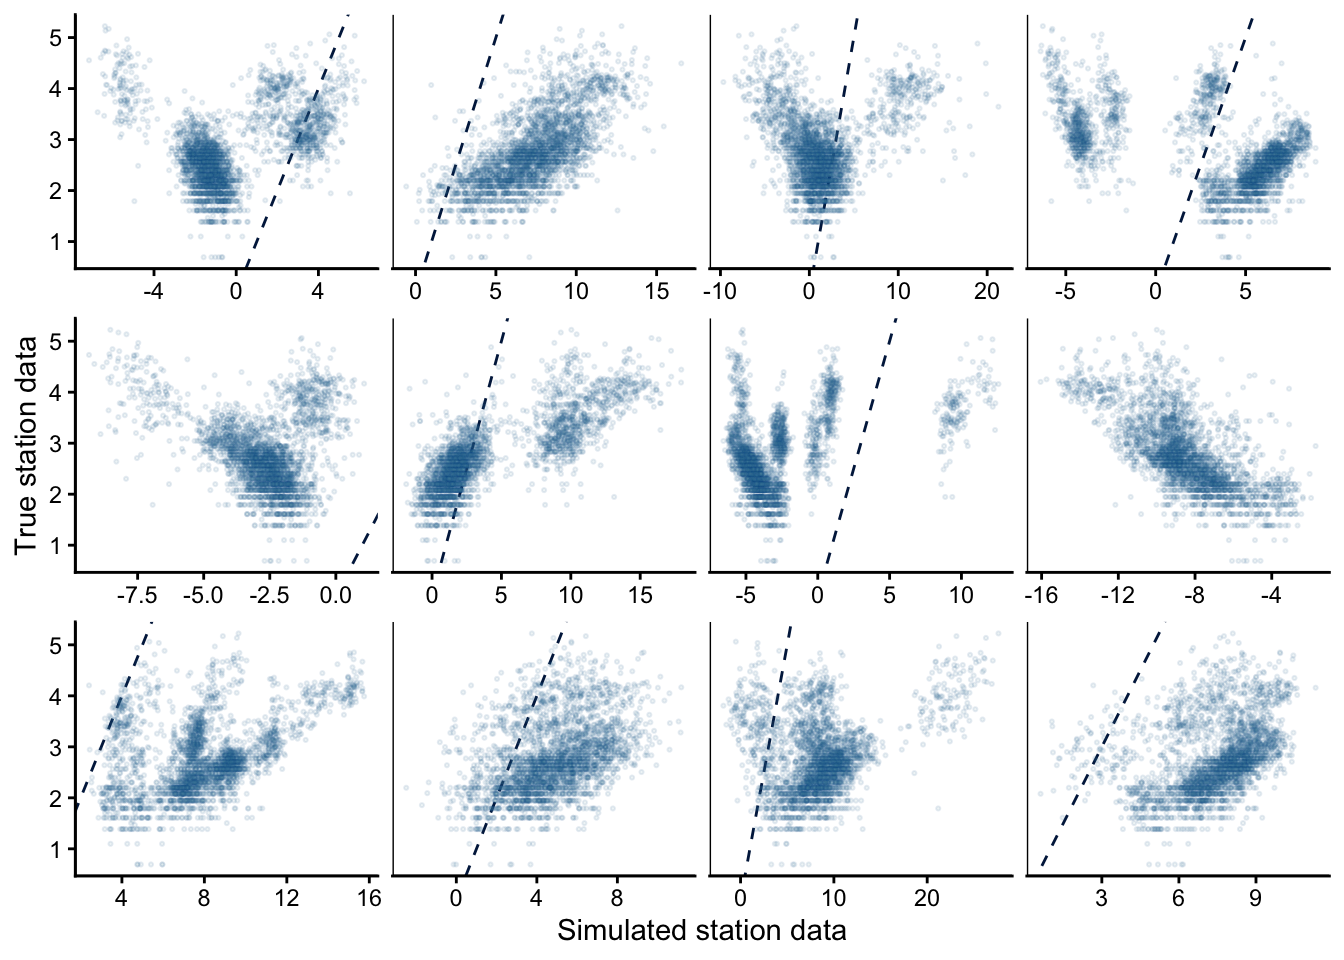
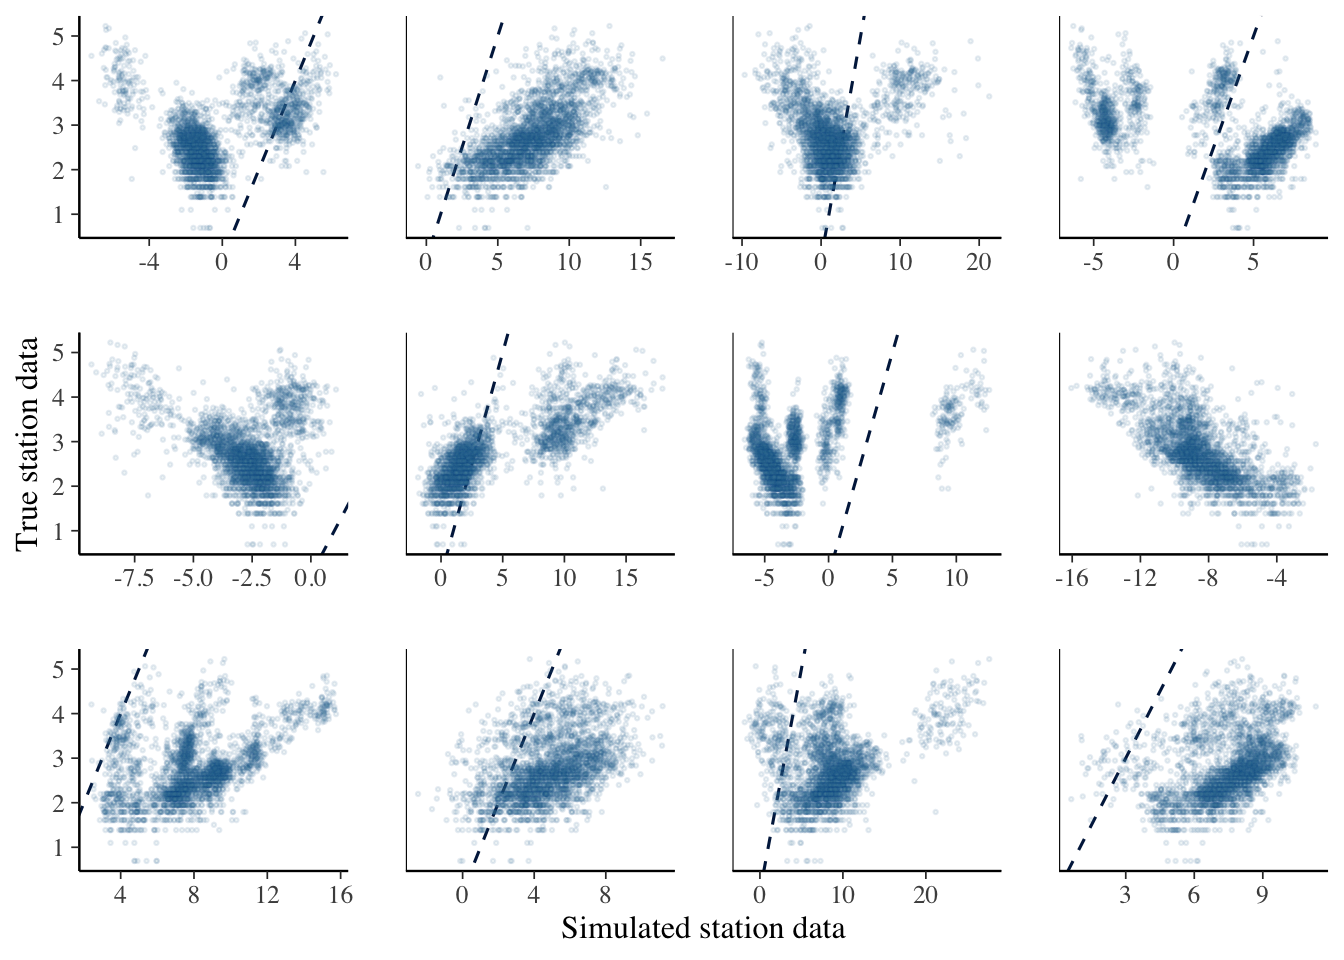
add objectives

diff --git a/notes/11-predictions.html b/notes/11-predictions.html
@@ -164,6 +164,7 @@ window.Quarto = {
 
 
 <p><a href="https://canvas.wisc.edu/courses/530541/files/54329528?wrap=1">Reading (Chapter 8.1 - 8.2)</a> <a href="https://github.com/krisrs1128/data_visualization_notes/blob/main/notes/11-predictions.qmd">Code</a></p>
+<p>Items marked with <span class="math inline">\(^\dagger\)</span> will not be tested on exams.</p>
 <ol type="1">
 <li><p>When we read data analysis reports or attend statistical research seminar, we are often bombarded by numerical outputs from models, like <span class="math inline">\(p\)</span>-values, test set accuracies, parameter estimates, or <span class="math inline">\(R^2\)</span> values. This is all helpful for keeping everyone honest, but if we want to build intuition (and improve) our models, then it really helps to visualize them, and not simply use numerical summaries.</p></li>
 <li><p>In fact, we can integrate visualization throughout the model building process. In data science, there is a cliche that visualization is mainly useful at the very beginning (exploratory data analysis) or end (pretty presentations) of a study. But careful modeling requires visualization at all steps.</p></li>
@@ -212,9 +213,9 @@ y_{1}^{\text{rep}}, \dots, y_{n}^{\text{rep}} \sim p\left(y^{\text{rep}} \vert y
 <li><p>In contrast, the <strong>prior predictive distribution</strong>, denoted <span class="math inline">\(p\left(y^{\text{rep}}\right)\)</span>, describes how we would simulate new datasets before having observed any real data <span class="math inline">\(y\)</span>. It encodes basic facts about the problem setting (e.g., plausible ranges of the outcome) but not the more specific relationships that are unknown in advance. <span id="eq-prior-pred"><span class="math display">\[
 y_{1}^{\text{rep}}, \dots, y_{n}^{\text{rep}} \sim p\left(y^{\text{rep}}\right).
 \tag{2}\]</span></span></p></li>
-</ul></li>
+</ul>
+<p><em>Exercise: You are working with a team on a model of bikesharing demand. A colleague interprets the posterior predictive as the “model’s prediction of future bike demand.” What are they misunderstanding? How would you explain the posterior predictive to them?</em></p></li>
 </ol>
-<p><em>Exercise: You are working with a team on a model of bikesharing demand. A colleague interprets the posterior predictive as the “model’s prediction of future bike demand.” What are they misunderstanding? How would you explain the posterior predictive to them?</em></p>
 </section>
 <section id="running-example" class="level3">
 <h3 class="anchored" data-anchor-id="running-example">Running Example</h3>
@@ -376,7 +377,9 @@ y_{1}^{\text{rep}}, \dots, y_{n}^{\text{rep}} \sim p\left(y^{\text{rep}}\right).
 </figure>
 </div>
 </div>
-</div></li>
+</div>
+<p><em>Exercise: In a bikesharing project, imagine that your data had rows specifying the hour of the day and total bike demand at that hour. How might you specify a prior predictive for a model that’s supposed to predict bike demand from hour of the day? How might you extend your approach if other variables were present (e.g., outdoor temperature or workday vs.&nbsp;weekday)?</em></p>
+<p><em>Exercise: A closely related idea to prior predictive checks is to visually assess model families using the “lineup” plot. The idea is to embed the real dataset in a lineup of simulated datasets based on the model’s assumptions. If you can easily spot the real dataset, then there is an opportunity for improvement. Try this with the first plot <a href="https://dicook.github.io/nullabor/articles/nullabor-distributions.html">here</a> or bottom plot <a href="https://dicook.github.io/nullabor/articles/nullabor-examples.html">here</a>.</em></p></li>
 </ol>
 </section>
 <section id="posterior-predictive-distributions" class="level3">
@@ -454,7 +457,8 @@ y_{1}^{\text{rep}}, \dots, y_{n}^{\text{rep}} \sim p\left(y^{\text{rep}}\right).
 </div>
 </div>
 </div></li>
-<li><p>According to this summary, it seems like the <code>clusters</code> model is the best. It gives simulated datasets whose skewness values match those that we observed in the real data. Of course, someone could call into our question the choice of using skewness over other test statistics. But we can at least have a productive debate by suggesting and evaluating different test statistics.</p></li>
+<li><p>According to this summary, it seems like the <code>clusters</code> model is the best. It gives simulated datasets whose skewness values match those that we observed in the real data. Of course, someone could call into our question the choice of using skewness over other test statistics. But we can at least have a productive debate by suggesting and evaluating different test statistics.</p>
+<p><em>Exercise: Continuing the bikesharing example, what test summaries would you define to see how well the posterior predictive datasets match the real data? Sketch the outputs from a model that would passes/fails the test.</em></p></li>
 <li><p>So far, we’ve worked with models that directly support simulation. This is actually a relatively broad class. It includes the Bayesian models discussed in the reading, of course, and also the humble linear model.</p>
 <div class="cell">
 <div class="code-copy-outer-scaffold"><div class="sourceCode cell-code" id="cb11"><pre class="sourceCode r code-with-copy"><code class="sourceCode r"><span id="cb11-1"><a href="#cb11-1" aria-hidden="true" tabindex="-1"></a>x <span class="ot">&lt;-</span> <span class="fu">seq</span>(<span class="sc">-</span><span class="dv">1</span>, <span class="dv">1</span>, <span class="at">length.out =</span> <span class="dv">10</span>)</span>
@@ -495,10 +499,9 @@ y_{1}^{\text{rep}}, \dots, y_{n}^{\text{rep}} \sim p\left(y^{\text{rep}}\right).
 <h2 class="anchored" data-anchor-id="explaining-black-boxes">Explaining Black Boxes</h2>
 <ol start="27" type="1">
 <li><p>Specifically, we’ll focus on Partial Dependence Profiles (PDP) and Individual Conditional Expectation (ICE) curves. They are general-purpose visualizations that attempt to explain how the model relates a predictor variable/set of predictor variables with the response.</p></li>
-<li><p>Partial dependence profiles were first introduced as a minor point in an influential paper about gradient boosting <span class="citation" data-cites="friedman2001greedy">(<a href="#ref-friedman2001greedy" role="doc-biblioref">Friedman 2001</a>)</span>. ICE and ALE were introduced to address some limitations of PDP, mainly related to the fact that prediction surfaces can become complicated in high-dimensions and when many interactions are present.</p></li>
-<li><p>Let <span class="math inline">\(f\)</span> be the learned black box function. Let <span class="math inline">\(x\)</span> be its <span class="math inline">\(D\)</span>-dimensional input. The idea is to ask how <span class="math inline">\(f\)</span> changes as we vary the <span class="math inline">\(d\)</span>th coordinate over its range. We need to do something with the remaining coordinates. The idea of PDP is to average across them.</p>
+<li><p>Partial dependence profiles were first introduced as a minor point in an influential paper about gradient boosting <span class="citation" data-cites="friedman2001greedy">(<a href="#ref-friedman2001greedy" role="doc-biblioref">Friedman 2001</a>)</span>. Let <span class="math inline">\(f\)</span> be the learned black box function. Let <span class="math inline">\(x\)</span> be its <span class="math inline">\(D\)</span>-dimensional input. The idea is to ask how <span class="math inline">\(f\)</span> changes as we vary the <span class="math inline">\(d\)</span>th coordinate over its range. We need to do something with the remaining coordinates. The idea of PDP is to average across them.</p>
 <p><span class="math display">\[
-\text{PDP}_d(z) = \mathbb{E}_{p(x_{-d})}\left[f(x_d = z, x_{-d})\right] \approx \frac{1}{N}\sum_{n=1}^N f(x_d = z, x_{n, -d})
+\text{PDP}_d(z) = \mathbb{E}_{p(x_{-d})}\left[f({\color{#69a4ac} x_d = z}, x_{-d})\right] \approx \frac{1}{N}\sum_{n=1}^N f({\color{#69a4ac} x_d = z}, x_{n, -d})
 \]</span></p>
 <p>The highlighted part refers to manually intervening on the <span class="math inline">\(d^{th}\)</span> coordinate and setting it to <span class="math inline">\(z\)</span>. If we evaluate this average across many different values of <span class="math inline">\(z\)</span>, we get a PDP curve. Note that for each value <span class="math inline">\(z\)</span>, we compute an average across the entire dataset, which can get slow.</p></li>
 <li><p>Here is some geometric intuition. We take the original samples, manually set all their <span class="math inline">\(d^{th}\)</span> coordinates to <span class="math inline">\(z\)</span>, evaluate the function <span class="math inline">\(f\)</span>, and then average.</p>
@@ -518,7 +521,7 @@ y_{1}^{\text{rep}}, \dots, y_{n}^{\text{rep}} \sim p\left(y^{\text{rep}}\right).
 </ol>
 <section id="individual-conditional-expectations" class="level3">
 <h3 class="anchored" data-anchor-id="individual-conditional-expectations">Individual Conditional Expectations</h3>
-<ol start="31" type="1">
+<ol start="30" type="1">
 <li><p>ICE plots consider each term in the PDP formula as its own function of <span class="math inline">\(z\)</span>.</p>
 <p><span class="math display">\[
 h_n(z) := f(x_d = z, x_{n, -d})
@@ -530,12 +533,13 @@ h_n(z) := f(x_d = z, x_{n, -d})
 <p><img src="figures/plot_titanic_ice.png" class="img-fluid figure-img"></p>
 <figcaption>ICE curves for a survival model fit to the Titanic dataset, colored by passenger/crew class.</figcaption>
 </figure>
-</div></li>
+</div>
+<p><em>Exercise: Figure 2D in <a href="https://www.science.org/doi/10.1126/science.aaa8026">this paper</a> gives the PDP profile for what a random forest model learned about the relationship between atmospheric carbon dioxide (<code>Global_pCO2</code>) the probability of observing a certain type of phytoplankton. You are serving as the statistical reviewer for this paper, and the journal editor doesn’t understand what this plot means. How would you explain it, and what checks would you recommend to ensure any interpretations from it are reliable?</em></p></li>
 </ol>
 </section>
 <section id="example" class="level3">
 <h3 class="anchored" data-anchor-id="example">Example</h3>
-<ol start="33" type="1">
+<ol start="32" type="1">
 <li><p>Let’s consider how ICE and PDP can be used to understand a model fitted to the Titanic dataset. This is a dataset that was used to understand what characteristics survivors of the Titanic disaster had in common. It’s not obvious in advance which characteristics of passengers made them more likely to survive, so a model is fitted to predict survival.</p>
 <div class="cell">
 <div class="code-copy-outer-scaffold"><div class="sourceCode cell-code" id="cb13"><pre class="sourceCode r code-with-copy"><code class="sourceCode r"><span id="cb13-1"><a href="#cb13-1" aria-hidden="true" tabindex="-1"></a><span class="fu">data</span>(titanic)</span>
@@ -585,9 +589,9 @@ h_n(z) := f(x_d = z, x_{n, -d})
 </section>
 <section id="interactions" class="level3">
 <h3 class="anchored" data-anchor-id="interactions">Interactions</h3>
-<ol start="37" type="1">
+<ol start="36" type="1">
 <li><p>We say that there is an interaction between variables <span class="math inline">\(j\)</span> and <span class="math inline">\(j^{\prime}\)</span> if the relationship between <span class="math inline">\(x_{j}\)</span> and <span class="math inline">\(y\)</span> is modulated by variable <span class="math inline">\(j^{\prime}\)</span>. For example, in the figure below, the slope of cross-sections across <span class="math inline">\(j\)</span> depends on <span class="math inline">\(j^{\prime}\)</span>.</p></li>
-<li><p>Using the language of partial dependence profiles, the figure above means that the shape of the ICE curve in <span class="math inline">\(j\)</span> depends on the particular setting of <span class="math inline">\(j^{\prime}\)</span>. This motivates the use of Grouped PD profiles — we compute several PD profiles in <span class="math inline">\(j\)</span>, restricting attention to PDP profiles whose value <span class="math inline">\(x_{j^{\prime}}\)</span> lies within a prespecified range.</p></li>
+<li><p>Using the language of partial dependence profiles, the figure above means that the shape of the ICE curve in <span class="math inline">\(j\)</span> depends on the particular setting of <span class="math inline">\(j^{\prime}\)</span>. This motivates the use of Grouped PD profiles, where we compute several PD profiles in <span class="math inline">\(j\)</span>, restricting attention to PDP profiles whose value <span class="math inline">\(x_{j^{\prime}}\)</span> lies within a prespecified range.</p></li>
 <li><p>To illustrate, we revisit the ICE curves for age from the Titanic dataset. Below, the profiles are grouped according to the class of the ticket holder. The result shows that the relationship between age and survival was not the same across all passengers. For all classes, there was a decrease in survival probability for adults, but the dropoff was most severe for crew members.</p>
 <div class="cell">
 <div class="code-copy-outer-scaffold"><div class="sourceCode cell-code" id="cb17"><pre class="sourceCode r code-with-copy"><code class="sourceCode r"><span id="cb17-1"><a href="#cb17-1" aria-hidden="true" tabindex="-1"></a>profiles <span class="ot">&lt;-</span> <span class="fu">model_profile</span>(<span class="at">explainer =</span> explanation, <span class="at">groups =</span> <span class="st">"class"</span>)</span>
@@ -621,14 +625,14 @@ h_n(z) := f(x_d = z, x_{n, -d})
 </section>
 <section id="model-comparison" class="level3">
 <h3 class="anchored" data-anchor-id="model-comparison">Model Comparison</h3>
-<ol start="42" type="1">
-<li><p>The comparison of different models’ PD profiles can be used to,</p>
+<ol start="41" type="1">
+<li><p><span class="math inline">\(^\dagger\)</span> The comparison of different models’ PD profiles can be used to,</p>
 <ul>
 <li>Validate a simple model</li>
 <li>Guide the design of new features, and</li>
 <li>Characterizing overfitting PD profiles that are used to compare different models are sometimes called “Contrastive” PD profiles.</li>
 </ul></li>
-<li><p>To validate a simple model, we can compare its PD profiles with those of a more sophisticated model. We will illustrate this by fitting linear and gradient boosting models to a dataset of apartment prices<a href="#fn3" class="footnote-ref" id="fnref3" role="doc-noteref"><sup>3</sup></a>. Given various properties of an apartment, the goal is to determine its price. The code below fits the two models and extracts their ICE and PD profiles.</p>
+<li><p><span class="math inline">\(^\dagger\)</span> To validate a simple model, we can compare its PD profiles with those of a more sophisticated model. We will illustrate this by fitting linear and gradient boosting models to a dataset of apartment prices<a href="#fn3" class="footnote-ref" id="fnref3" role="doc-noteref"><sup>3</sup></a>. Given various properties of an apartment, the goal is to determine its price. The code below fits the two models and extracts their ICE and PD profiles.</p>
 <div class="cell">
 <div class="code-copy-outer-scaffold"><div class="sourceCode cell-code" id="cb19"><pre class="sourceCode r code-with-copy"><code class="sourceCode r"><span id="cb19-1"><a href="#cb19-1" aria-hidden="true" tabindex="-1"></a><span class="fu">data</span>(apartments)</span>
 <span id="cb19-2"><a href="#cb19-2" aria-hidden="true" tabindex="-1"></a>x <span class="ot">&lt;-</span> <span class="fu">select</span>(apartments, <span class="sc">-</span>m2.price)</span>
@@ -665,7 +669,7 @@ h_n(z) := f(x_d = z, x_{n, -d})
   A new explainer has been created!  </code></pre>
 </div>
 </div></li>
-<li><p>The PD profile below shows that the random forest learns linear relationships with price for both the surface and floor variables. If all the effects were like this, then we would have a good reason for preferring the linear model.</p>
+<li><p><span class="math inline">\(^\dagger\)</span> The PD profile below shows that the random forest learns linear relationships with price for both the surface and floor variables. If all the effects were like this, then we would have a good reason for preferring the linear model.</p>
 <div class="cell">
 <div class="code-copy-outer-scaffold"><div class="sourceCode cell-code" id="cb23"><pre class="sourceCode r code-with-copy"><code class="sourceCode r"><span id="cb23-1"><a href="#cb23-1" aria-hidden="true" tabindex="-1"></a><span class="fu">plot</span>(profiles_lm, profiles_rf, <span class="at">variables =</span> <span class="fu">c</span>(<span class="st">"surface"</span>, <span class="st">"floor"</span>)) <span class="sc">+</span></span>
 <span id="cb23-2"><a href="#cb23-2" aria-hidden="true" tabindex="-1"></a>    <span class="fu">scale_color_brewer</span>(<span class="at">palette =</span> <span class="st">"Set2"</span>)</span></code></pre></div><button title="Copy to Clipboard" class="code-copy-button"><i class="bi"></i></button></div>
@@ -678,7 +682,7 @@ h_n(z) := f(x_d = z, x_{n, -d})
 </div>
 </div>
 </div></li>
-<li><p>When making the comparison between a simple and a complex model, certain discrepancies might become apparent. For example, important nonlinearities or interactions might be visible from the PD profiles of the complex model. This information can guide the design of new features in the simpler model, so that it can continue to be used. This is exactly the case in the apartments dataset above (there is a strong nonlinear relationship for the construction year variables). This suggests that, if a linear model is still desired, then a new feature should be defined that identifies whether the apartment was built between 1935 and 1990.</p>
+<li><p><span class="math inline">\(^\dagger\)</span> When making the comparison between a simple and a complex model, certain discrepancies might become apparent. For example, important nonlinearities or interactions might be visible from the PD profiles of the complex model. This information can guide the design of new features in the simpler model, so that it can continue to be used. This is exactly the case in the apartments dataset above (there is a strong nonlinear relationship for the construction year variables). This suggests that, if a linear model is still desired, then a new feature should be defined that identifies whether the apartment was built between 1935 and 1990.</p>
 <div class="cell">
 <div class="code-copy-outer-scaffold"><div class="sourceCode cell-code" id="cb24"><pre class="sourceCode r code-with-copy"><code class="sourceCode r"><span id="cb24-1"><a href="#cb24-1" aria-hidden="true" tabindex="-1"></a><span class="fu">plot</span>(profiles_lm, profiles_rf, <span class="at">variables =</span> <span class="st">"construction.year"</span>) <span class="sc">+</span></span>
 <span id="cb24-2"><a href="#cb24-2" aria-hidden="true" tabindex="-1"></a>    <span class="fu">scale_color_brewer</span>(<span class="at">palette =</span> <span class="st">"Set2"</span>)</span></code></pre></div><button title="Copy to Clipboard" class="code-copy-button"><i class="bi"></i></button></div>
@@ -691,11 +695,22 @@ h_n(z) := f(x_d = z, x_{n, -d})
 </div>
 </div>
 </div></li>
-<li><p>Suppose you have found that a model is overfitting (e.g., by finding that it’s training error is much lower than its test error). One way to address this overfitting is to compare the PD profiles between the simple and complex models. If the profiles are very different for one of the features, then that feature may be the source of overfitting.</p>
-<!-- styler::style_file("11-predictions.qmd", indent_by = 4) --></li>
+<li><p><span class="math inline">\(^\dagger\)</span> Suppose you have found that a model is overfitting (e.g., by finding that it’s training error is much lower than its test error). One way to address this overfitting is to compare the PD profiles between the simple and complex models. If the profiles are very different for one of the features, then that feature may be the source of overfitting.</p></li>
 </ol>
-
 </section>
+</section>
+<section id="objectives" class="level2">
+<h2 class="anchored" data-anchor-id="objectives">Objectives</h2>
+<ul>
+<li>Recall Box’s Loop and explain the role of visualization within it.</li>
+<li>Distinguish between prior and posterior predictive distributions, and explain what questions the associated visualizations are well-suited to answering.</li>
+<li>Interpret the results from <code>ppc_scatter</code> applied to either prior or posterior predcitive distributions.</li>
+<li>Explain each part of the <code>pp_check</code> visualization of test summaries from real and simulated datasets, and use this to choose between candidate models.</li>
+<li>Given a small dataset and model predictions, compute a partial dependence profile by hand.</li>
+<li>Compare and contrast PDP profiles and ICE curves, and provide an example where PDP alone may mask patterns that are visible in ICE.</li>
+<li>Accurately interpret visualizations outputs generated using <code>explain()</code> and <code>model_profile()</code> from the <code>DALEX</code> package.</li>
+</ul>
+
 </section>
 
 
